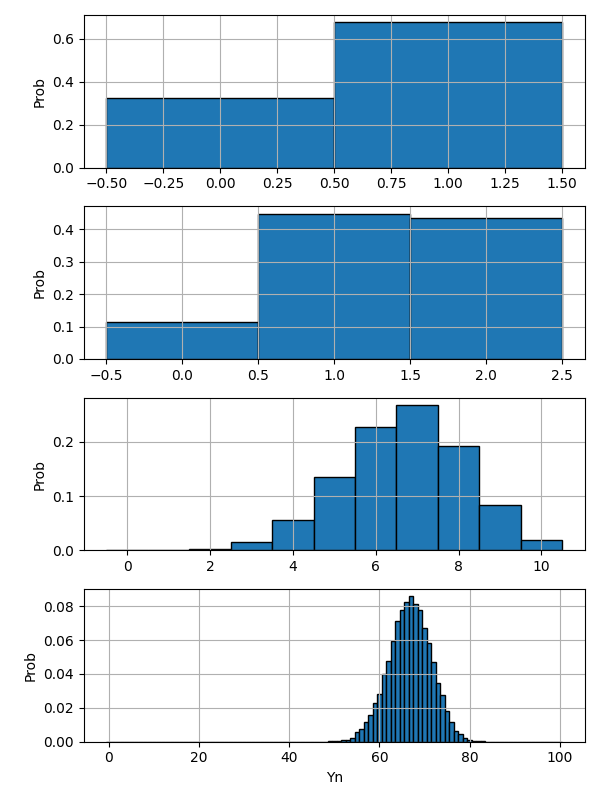
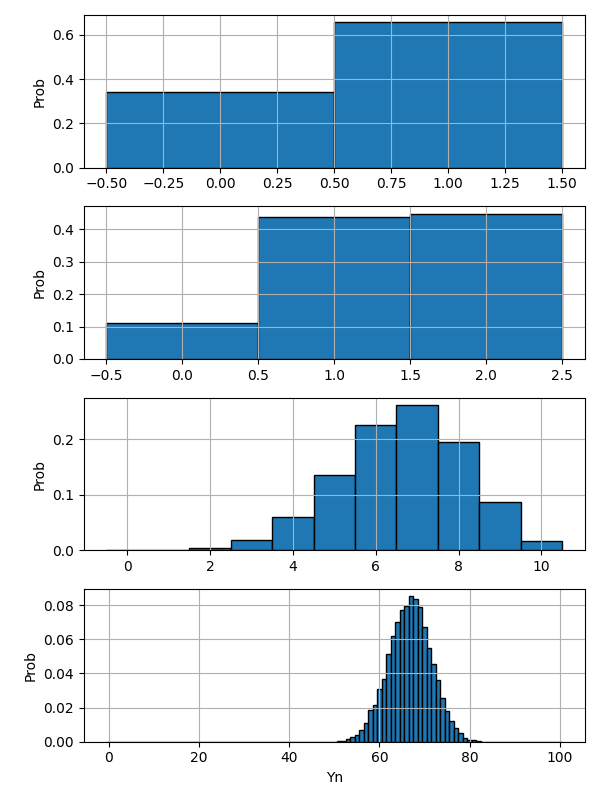
Update

diff --git a/HW3/HW3.py b/HW3/HW3.py
@@ -81,7 +81,7 @@ print("Analytical var: ", var_analytical, "Numerical var: ", var)
 Z = gen_Z(Y, n_list[-1])
 fig, ax = plt.subplots(nrows=1, ncols=1, figsize=(4, 4))
 # weights_z = np.ones_like(Z)/ len(Z)
-ax.hist(Z,bins = 30,density=True, edgecolor='black',label='Z')
+ax.hist(Z,bins = 35,density=True, edgecolor='black',label='Z')
 gaussian_pdf,grid = normal_pdf(1000)
 ax.plot(grid, gaussian_pdf,label = "Gaussian")
 ax.set_ylabel('Prob')
